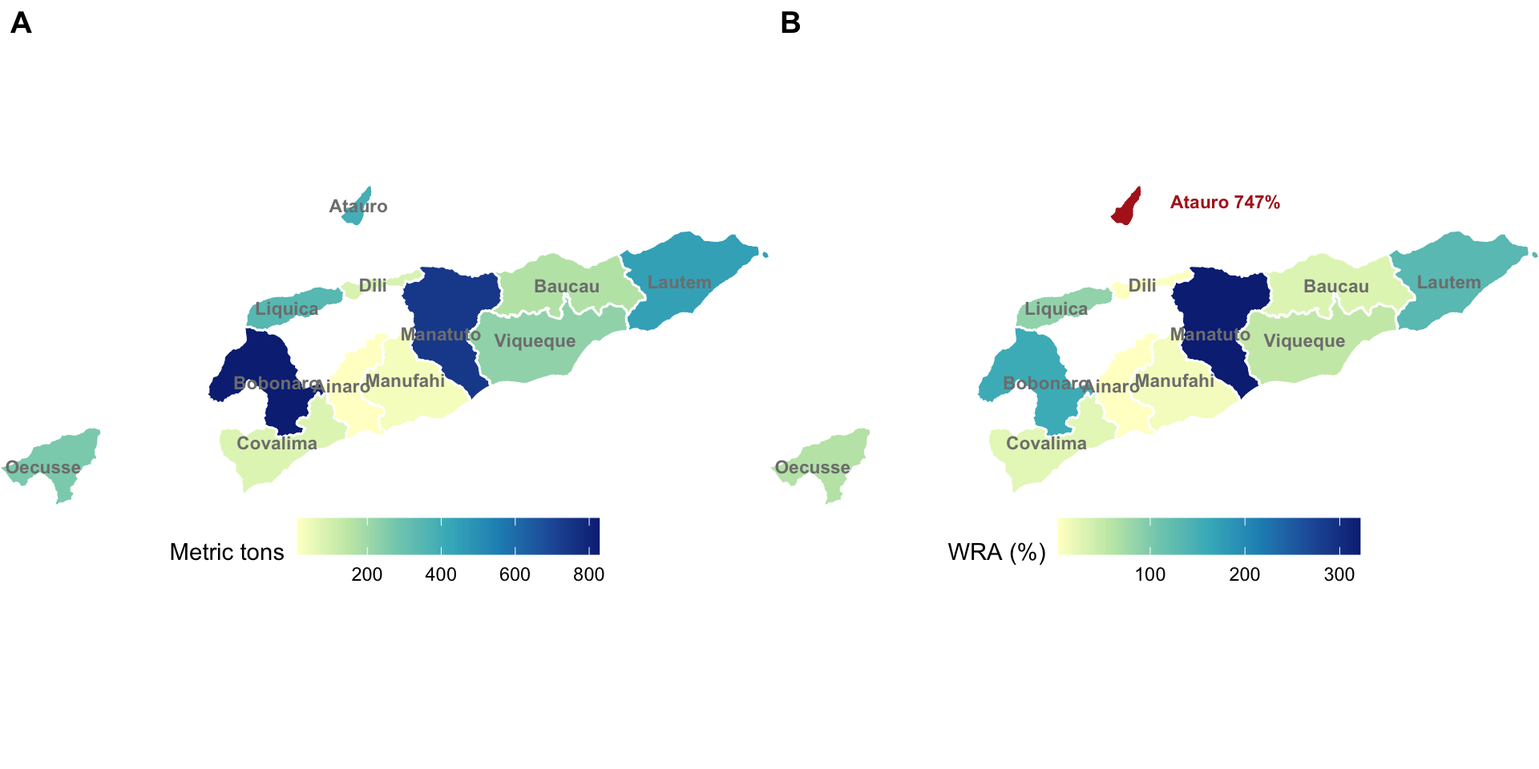
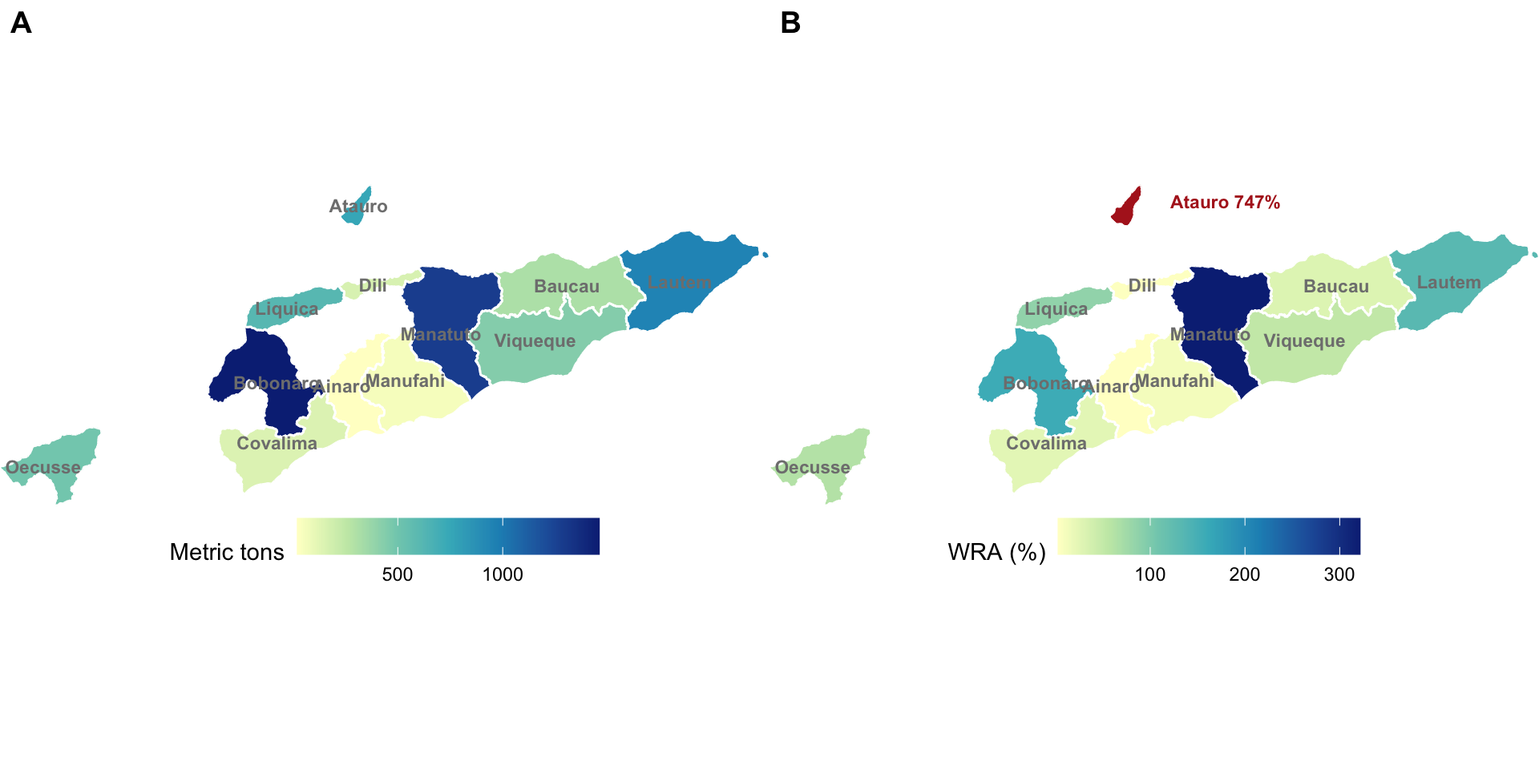
fix nutritional map figure

diff --git a/docs/highlight.html b/docs/highlight.html
@@ -178,87 +178,100 @@ code span.wa { color: #60a0b0; font-weight: bold; font-style: italic; } /* Warni
 <details class=chunk-details><summary class=chunk-summary><span class=chunk-summary-text>Code</span></summary>
 <div class="sourceCode" id="cb1"><pre class="sourceCode r"><code class="sourceCode r"><span id="cb1-1"><a href="highlight.html#cb1-1" tabindex="-1"></a>bonds <span class="ot">&lt;-</span> sf<span class="sc">::</span><span class="fu">st_as_sf</span>(timor.nutrients<span class="sc">::</span>timor_bonds)</span>
 <span id="cb1-2"><a href="highlight.html#cb1-2" tabindex="-1"></a></span>
-<span id="cb1-3"><a href="highlight.html#cb1-3" tabindex="-1"></a>region_nutr <span class="ot">&lt;-</span></span>
-<span id="cb1-4"><a href="highlight.html#cb1-4" tabindex="-1"></a>  timor.nutrients<span class="sc">::</span>map_data_adj <span class="sc">%&gt;%</span></span>
-<span id="cb1-5"><a href="highlight.html#cb1-5" tabindex="-1"></a>  dplyr<span class="sc">::</span><span class="fu">rename</span>(<span class="at">region =</span> area) <span class="sc">%&gt;%</span></span>
-<span id="cb1-6"><a href="highlight.html#cb1-6" tabindex="-1"></a>  dplyr<span class="sc">::</span><span class="fu">filter</span>(<span class="sc">!</span>region <span class="sc">==</span> <span class="st">&quot;National&quot;</span>) <span class="sc">%&gt;%</span></span>
-<span id="cb1-7"><a href="highlight.html#cb1-7" tabindex="-1"></a>  dplyr<span class="sc">::</span><span class="fu">mutate</span>(<span class="at">region =</span> <span class="fu">ifelse</span>(region <span class="sc">==</span> <span class="st">&quot;Liquiça&quot;</span>, <span class="st">&quot;Liquica&quot;</span>, region)) <span class="sc">%&gt;%</span></span>
-<span id="cb1-8"><a href="highlight.html#cb1-8" tabindex="-1"></a>  dplyr<span class="sc">::</span><span class="fu">right_join</span>(bonds, <span class="at">by =</span> <span class="fu">c</span>(<span class="st">&quot;region&quot;</span>))</span>
+<span id="cb1-3"><a href="highlight.html#cb1-3" tabindex="-1"></a>tot_prod <span class="ot">&lt;-</span> </span>
+<span id="cb1-4"><a href="highlight.html#cb1-4" tabindex="-1"></a>  timor.nutrients<span class="sc">::</span>map_data <span class="sc">|&gt;</span> </span>
+<span id="cb1-5"><a href="highlight.html#cb1-5" tabindex="-1"></a>    dplyr<span class="sc">::</span><span class="fu">rename</span>(<span class="at">region =</span> area) <span class="sc">|&gt;</span> </span>
+<span id="cb1-6"><a href="highlight.html#cb1-6" tabindex="-1"></a>    dplyr<span class="sc">::</span><span class="fu">rename</span>(<span class="at">annual_catch_tot =</span> annual_catch) <span class="sc">|&gt;</span> </span>
+<span id="cb1-7"><a href="highlight.html#cb1-7" tabindex="-1"></a>    dplyr<span class="sc">::</span><span class="fu">rename</span>(<span class="at">WRA_tot =</span> WRA) <span class="sc">|&gt;</span> </span>
+<span id="cb1-8"><a href="highlight.html#cb1-8" tabindex="-1"></a>    dplyr<span class="sc">::</span><span class="fu">mutate</span>(<span class="at">region =</span> <span class="fu">ifelse</span>(region <span class="sc">==</span> <span class="st">&quot;Liquiça&quot;</span>, <span class="st">&quot;Liquica&quot;</span>, region))</span>
 <span id="cb1-9"><a href="highlight.html#cb1-9" tabindex="-1"></a></span>
-<span id="cb1-10"><a href="highlight.html#cb1-10" tabindex="-1"></a>p1 <span class="ot">&lt;-</span> </span>
-<span id="cb1-11"><a href="highlight.html#cb1-11" tabindex="-1"></a>  <span class="fu">ggplot</span>(<span class="at">data =</span> region_nutr) <span class="sc">+</span></span>
-<span id="cb1-12"><a href="highlight.html#cb1-12" tabindex="-1"></a>  <span class="fu">geom_sf</span>(<span class="fu">aes</span>(<span class="at">geometry =</span> geometry, <span class="at">fill =</span> annual_catch),</span>
-<span id="cb1-13"><a href="highlight.html#cb1-13" tabindex="-1"></a>          <span class="at">color =</span> <span class="st">&quot;white&quot;</span>, <span class="at">linewidth =</span> <span class="fl">0.5</span></span>
-<span id="cb1-14"><a href="highlight.html#cb1-14" tabindex="-1"></a>  ) <span class="sc">+</span></span>
-<span id="cb1-15"><a href="highlight.html#cb1-15" tabindex="-1"></a>  <span class="fu">theme_void</span>() <span class="sc">+</span></span>
-<span id="cb1-16"><a href="highlight.html#cb1-16" tabindex="-1"></a>  <span class="fu">geom_sf_text</span>(<span class="fu">aes</span>(<span class="at">label =</span> region, <span class="at">geometry =</span> geometry), <span class="at">size =</span> <span class="dv">3</span>, <span class="at">color =</span> <span class="st">&quot;grey50&quot;</span>, <span class="at">fontface =</span> <span class="st">&quot;bold&quot;</span>) <span class="sc">+</span></span>
-<span id="cb1-17"><a href="highlight.html#cb1-17" tabindex="-1"></a>  <span class="co"># scale_fill_viridis_c(option = &quot;viridis&quot;, direction = -1, begin = 0.3, end = 1, alpha = 0.7) +</span></span>
-<span id="cb1-18"><a href="highlight.html#cb1-18" tabindex="-1"></a>  <span class="fu">scale_fill_distiller</span>(<span class="at">palette =</span> <span class="st">&quot;YlGnBu&quot;</span>, <span class="at">direction =</span> <span class="dv">1</span>) <span class="sc">+</span></span>
-<span id="cb1-19"><a href="highlight.html#cb1-19" tabindex="-1"></a>  <span class="fu">guides</span>(<span class="at">alpha =</span> <span class="st">&quot;none&quot;</span>) <span class="sc">+</span></span>
-<span id="cb1-20"><a href="highlight.html#cb1-20" tabindex="-1"></a>  <span class="fu">coord_sf</span>(<span class="at">expand =</span> <span class="cn">FALSE</span>) <span class="sc">+</span></span>
-<span id="cb1-21"><a href="highlight.html#cb1-21" tabindex="-1"></a>  <span class="fu">theme</span>(</span>
-<span id="cb1-22"><a href="highlight.html#cb1-22" tabindex="-1"></a>    <span class="at">legend.position =</span> <span class="st">&quot;bottom&quot;</span>,</span>
-<span id="cb1-23"><a href="highlight.html#cb1-23" tabindex="-1"></a>    <span class="at">legend.key.width =</span> <span class="fu">unit</span>(<span class="dv">1</span>, <span class="st">&quot;cm&quot;</span>),</span>
-<span id="cb1-24"><a href="highlight.html#cb1-24" tabindex="-1"></a>    <span class="at">panel.grid =</span> <span class="fu">element_blank</span>(),</span>
-<span id="cb1-25"><a href="highlight.html#cb1-25" tabindex="-1"></a>    <span class="at">axis.ticks =</span> <span class="fu">element_blank</span>(),</span>
-<span id="cb1-26"><a href="highlight.html#cb1-26" tabindex="-1"></a>    <span class="at">axis.title =</span> <span class="fu">element_blank</span>(),</span>
-<span id="cb1-27"><a href="highlight.html#cb1-27" tabindex="-1"></a>    <span class="at">axis.text =</span> <span class="fu">element_blank</span>()</span>
-<span id="cb1-28"><a href="highlight.html#cb1-28" tabindex="-1"></a>  ) <span class="sc">+</span></span>
-<span id="cb1-29"><a href="highlight.html#cb1-29" tabindex="-1"></a>  <span class="fu">labs</span>(</span>
-<span id="cb1-30"><a href="highlight.html#cb1-30" tabindex="-1"></a>    <span class="at">fill =</span> <span class="st">&quot;Metric tons&quot;</span></span>
-<span id="cb1-31"><a href="highlight.html#cb1-31" tabindex="-1"></a>  )</span>
-<span id="cb1-32"><a href="highlight.html#cb1-32" tabindex="-1"></a></span>
-<span id="cb1-33"><a href="highlight.html#cb1-33" tabindex="-1"></a></span>
-<span id="cb1-34"><a href="highlight.html#cb1-34" tabindex="-1"></a>p2 <span class="ot">&lt;-</span> </span>
-<span id="cb1-35"><a href="highlight.html#cb1-35" tabindex="-1"></a>  <span class="fu">ggplot</span>() <span class="sc">+</span></span>
-<span id="cb1-36"><a href="highlight.html#cb1-36" tabindex="-1"></a>  <span class="fu">geom_sf</span>(</span>
-<span id="cb1-37"><a href="highlight.html#cb1-37" tabindex="-1"></a>    <span class="at">data =</span> region_nutr <span class="sc">%&gt;%</span></span>
-<span id="cb1-38"><a href="highlight.html#cb1-38" tabindex="-1"></a>      dplyr<span class="sc">::</span><span class="fu">filter</span>(<span class="sc">!</span>region <span class="sc">==</span> <span class="st">&quot;Atauro&quot;</span>), <span class="at">mapping =</span> <span class="fu">aes</span>(<span class="at">geometry =</span> geometry, <span class="at">fill =</span> WRA),</span>
-<span id="cb1-39"><a href="highlight.html#cb1-39" tabindex="-1"></a>    <span class="at">color =</span> <span class="st">&quot;white&quot;</span>, <span class="at">linewidth =</span> <span class="fl">0.5</span></span>
-<span id="cb1-40"><a href="highlight.html#cb1-40" tabindex="-1"></a>  ) <span class="sc">+</span></span>
-<span id="cb1-41"><a href="highlight.html#cb1-41" tabindex="-1"></a>  <span class="fu">geom_sf</span>(</span>
-<span id="cb1-42"><a href="highlight.html#cb1-42" tabindex="-1"></a>    <span class="at">data =</span> region_nutr <span class="sc">%&gt;%</span></span>
-<span id="cb1-43"><a href="highlight.html#cb1-43" tabindex="-1"></a>      dplyr<span class="sc">::</span><span class="fu">filter</span>(region <span class="sc">==</span> <span class="st">&quot;Atauro&quot;</span>), <span class="at">mapping =</span> <span class="fu">aes</span>(<span class="at">geometry =</span> geometry), <span class="at">fill =</span> <span class="st">&quot;firebrick&quot;</span>,</span>
-<span id="cb1-44"><a href="highlight.html#cb1-44" tabindex="-1"></a>    <span class="at">color =</span> <span class="st">&quot;white&quot;</span>, <span class="at">linewidth =</span> <span class="fl">0.5</span></span>
-<span id="cb1-45"><a href="highlight.html#cb1-45" tabindex="-1"></a>  ) <span class="sc">+</span></span>
-<span id="cb1-46"><a href="highlight.html#cb1-46" tabindex="-1"></a>  <span class="fu">theme_void</span>() <span class="sc">+</span></span>
-<span id="cb1-47"><a href="highlight.html#cb1-47" tabindex="-1"></a>  <span class="fu">geom_sf_text</span>(<span class="at">data =</span> region_nutr <span class="sc">%&gt;%</span></span>
-<span id="cb1-48"><a href="highlight.html#cb1-48" tabindex="-1"></a>                 dplyr<span class="sc">::</span><span class="fu">filter</span>(<span class="sc">!</span>region <span class="sc">==</span> <span class="st">&quot;Atauro&quot;</span>), <span class="at">mapping =</span> <span class="fu">aes</span>(<span class="at">label =</span> region, <span class="at">geometry =</span> geometry), <span class="at">size =</span> <span class="dv">3</span>, <span class="at">color =</span> <span class="st">&quot;grey50&quot;</span>, <span class="at">fontface =</span> <span class="st">&quot;bold&quot;</span>) <span class="sc">+</span></span>
-<span id="cb1-49"><a href="highlight.html#cb1-49" tabindex="-1"></a>  <span class="fu">annotate</span>(</span>
-<span id="cb1-50"><a href="highlight.html#cb1-50" tabindex="-1"></a>    <span class="st">&quot;text&quot;</span>,</span>
-<span id="cb1-51"><a href="highlight.html#cb1-51" tabindex="-1"></a>    <span class="at">x =</span> <span class="dv">126</span>, <span class="at">y =</span> <span class="sc">-</span><span class="fl">8.2</span>, <span class="at">label =</span> <span class="st">&quot;Atauro 747%&quot;</span>, <span class="at">size =</span> <span class="dv">3</span>, <span class="at">color =</span> <span class="st">&quot;firebrick&quot;</span>, <span class="at">fontface =</span> <span class="st">&quot;bold&quot;</span></span>
-<span id="cb1-52"><a href="highlight.html#cb1-52" tabindex="-1"></a>  ) <span class="sc">+</span></span>
-<span id="cb1-53"><a href="highlight.html#cb1-53" tabindex="-1"></a>  <span class="co"># annotate(</span></span>
-<span id="cb1-54"><a href="highlight.html#cb1-54" tabindex="-1"></a>  <span class="co">#  &quot;text&quot;, x = 125.8, y = -8.2, label = &quot;1067.9%&quot;, size = 3, color = &quot;firebrick&quot;, fontface = &quot;bold&quot;</span></span>
-<span id="cb1-55"><a href="highlight.html#cb1-55" tabindex="-1"></a>  <span class="co"># ) +</span></span>
-<span id="cb1-56"><a href="highlight.html#cb1-56" tabindex="-1"></a>  <span class="fu">scale_fill_distiller</span>(<span class="at">palette =</span> <span class="st">&quot;YlGnBu&quot;</span>, <span class="at">direction =</span> <span class="dv">1</span>) <span class="sc">+</span></span>
-<span id="cb1-57"><a href="highlight.html#cb1-57" tabindex="-1"></a>  <span class="fu">guides</span>(<span class="at">alpha =</span> <span class="st">&quot;none&quot;</span>) <span class="sc">+</span></span>
-<span id="cb1-58"><a href="highlight.html#cb1-58" tabindex="-1"></a>  <span class="fu">coord_sf</span>(<span class="at">expand =</span> <span class="cn">FALSE</span>) <span class="sc">+</span></span>
-<span id="cb1-59"><a href="highlight.html#cb1-59" tabindex="-1"></a>  <span class="fu">theme</span>(</span>
-<span id="cb1-60"><a href="highlight.html#cb1-60" tabindex="-1"></a>    <span class="at">plot.margin =</span> <span class="fu">margin</span>(<span class="dv">0</span>, <span class="dv">0</span>, <span class="dv">0</span>, <span class="dv">0</span>, <span class="st">&quot;cm&quot;</span>),</span>
-<span id="cb1-61"><a href="highlight.html#cb1-61" tabindex="-1"></a>    <span class="at">legend.position =</span> <span class="st">&quot;bottom&quot;</span>,</span>
-<span id="cb1-62"><a href="highlight.html#cb1-62" tabindex="-1"></a>    <span class="at">legend.key.width =</span> <span class="fu">unit</span>(<span class="dv">1</span>, <span class="st">&quot;cm&quot;</span>),</span>
-<span id="cb1-63"><a href="highlight.html#cb1-63" tabindex="-1"></a>    <span class="at">panel.grid =</span> <span class="fu">element_blank</span>(),</span>
-<span id="cb1-64"><a href="highlight.html#cb1-64" tabindex="-1"></a>    <span class="at">axis.ticks =</span> <span class="fu">element_blank</span>(),</span>
-<span id="cb1-65"><a href="highlight.html#cb1-65" tabindex="-1"></a>    <span class="at">axis.title =</span> <span class="fu">element_blank</span>(),</span>
-<span id="cb1-66"><a href="highlight.html#cb1-66" tabindex="-1"></a>    <span class="at">axis.text =</span> <span class="fu">element_blank</span>()</span>
-<span id="cb1-67"><a href="highlight.html#cb1-67" tabindex="-1"></a>  ) <span class="sc">+</span></span>
-<span id="cb1-68"><a href="highlight.html#cb1-68" tabindex="-1"></a>  <span class="fu">labs</span>(</span>
-<span id="cb1-69"><a href="highlight.html#cb1-69" tabindex="-1"></a>    <span class="at">fill =</span> <span class="st">&quot;WRA (%)&quot;</span></span>
-<span id="cb1-70"><a href="highlight.html#cb1-70" tabindex="-1"></a>  )</span>
-<span id="cb1-71"><a href="highlight.html#cb1-71" tabindex="-1"></a></span>
-<span id="cb1-72"><a href="highlight.html#cb1-72" tabindex="-1"></a><span class="co">#title = &quot;WRA that would meet the recommended quantity of edible fish annually,\nfrom marine catches by municipality&quot;</span></span>
-<span id="cb1-73"><a href="highlight.html#cb1-73" tabindex="-1"></a><span class="co">#title = &quot;Timor-Leste small scale fisheries production&quot;,</span></span>
-<span id="cb1-74"><a href="highlight.html#cb1-74" tabindex="-1"></a><span class="co">#subtitle = &quot;Annual catch in Mt per municipality, average (2020-2022)&quot;</span></span>
-<span id="cb1-75"><a href="highlight.html#cb1-75" tabindex="-1"></a></span>
-<span id="cb1-76"><a href="highlight.html#cb1-76" tabindex="-1"></a>cowplot<span class="sc">::</span><span class="fu">plot_grid</span>(</span>
-<span id="cb1-77"><a href="highlight.html#cb1-77" tabindex="-1"></a>  p1 <span class="sc">+</span> <span class="fu">theme</span>(<span class="at">plot.margin =</span> <span class="fu">margin</span>(<span class="dv">0</span>, <span class="dv">0</span>, <span class="dv">0</span>, <span class="dv">0</span>, <span class="st">&quot;cm&quot;</span>)), </span>
-<span id="cb1-78"><a href="highlight.html#cb1-78" tabindex="-1"></a>  p2 <span class="sc">+</span> <span class="fu">theme</span>(<span class="at">plot.margin =</span> <span class="fu">margin</span>(<span class="dv">0</span>, <span class="dv">0</span>, <span class="dv">0</span>, <span class="dv">0</span>, <span class="st">&quot;cm&quot;</span>)), </span>
-<span id="cb1-79"><a href="highlight.html#cb1-79" tabindex="-1"></a>  <span class="at">ncol =</span> <span class="dv">2</span>, </span>
-<span id="cb1-80"><a href="highlight.html#cb1-80" tabindex="-1"></a>  <span class="at">labels =</span> <span class="st">&quot;AUTO&quot;</span>, </span>
-<span id="cb1-81"><a href="highlight.html#cb1-81" tabindex="-1"></a>  <span class="at">rel_widths =</span> <span class="fu">c</span>(<span class="dv">1</span>, <span class="dv">1</span>), </span>
-<span id="cb1-82"><a href="highlight.html#cb1-82" tabindex="-1"></a>  <span class="at">align =</span> <span class="st">&quot;hv&quot;</span></span>
-<span id="cb1-83"><a href="highlight.html#cb1-83" tabindex="-1"></a>)</span></code></pre></div>
+<span id="cb1-10"><a href="highlight.html#cb1-10" tabindex="-1"></a></span>
+<span id="cb1-11"><a href="highlight.html#cb1-11" tabindex="-1"></a>region_nutr <span class="ot">&lt;-</span></span>
+<span id="cb1-12"><a href="highlight.html#cb1-12" tabindex="-1"></a>  timor.nutrients<span class="sc">::</span>map_data_adj <span class="sc">%&gt;%</span></span>
+<span id="cb1-13"><a href="highlight.html#cb1-13" tabindex="-1"></a>  dplyr<span class="sc">::</span><span class="fu">rename</span>(<span class="at">region =</span> area) <span class="sc">%&gt;%</span></span>
+<span id="cb1-14"><a href="highlight.html#cb1-14" tabindex="-1"></a>  dplyr<span class="sc">::</span><span class="fu">filter</span>(<span class="sc">!</span>region <span class="sc">==</span> <span class="st">&quot;National&quot;</span>) <span class="sc">%&gt;%</span></span>
+<span id="cb1-15"><a href="highlight.html#cb1-15" tabindex="-1"></a>  dplyr<span class="sc">::</span><span class="fu">mutate</span>(<span class="at">region =</span> <span class="fu">ifelse</span>(region <span class="sc">==</span> <span class="st">&quot;Liquiça&quot;</span>, <span class="st">&quot;Liquica&quot;</span>, region)) <span class="sc">%&gt;%</span></span>
+<span id="cb1-16"><a href="highlight.html#cb1-16" tabindex="-1"></a>  dplyr<span class="sc">::</span><span class="fu">right_join</span>(bonds, <span class="at">by =</span> <span class="fu">c</span>(<span class="st">&quot;region&quot;</span>)) <span class="sc">|&gt;</span> </span>
+<span id="cb1-17"><a href="highlight.html#cb1-17" tabindex="-1"></a>  dplyr<span class="sc">::</span><span class="fu">left_join</span>(tot_prod, <span class="at">by =</span> <span class="st">&quot;region&quot;</span>) <span class="sc">|&gt;</span> </span>
+<span id="cb1-18"><a href="highlight.html#cb1-18" tabindex="-1"></a>  dplyr<span class="sc">::</span><span class="fu">select</span>(region, </span>
+<span id="cb1-19"><a href="highlight.html#cb1-19" tabindex="-1"></a>  annual_catch_tot, </span>
+<span id="cb1-20"><a href="highlight.html#cb1-20" tabindex="-1"></a>  WRA,</span>
+<span id="cb1-21"><a href="highlight.html#cb1-21" tabindex="-1"></a>  geometry)</span>
+<span id="cb1-22"><a href="highlight.html#cb1-22" tabindex="-1"></a></span>
+<span id="cb1-23"><a href="highlight.html#cb1-23" tabindex="-1"></a>p1 <span class="ot">&lt;-</span> </span>
+<span id="cb1-24"><a href="highlight.html#cb1-24" tabindex="-1"></a>  <span class="fu">ggplot</span>(<span class="at">data =</span> region_nutr) <span class="sc">+</span></span>
+<span id="cb1-25"><a href="highlight.html#cb1-25" tabindex="-1"></a>  <span class="fu">geom_sf</span>(<span class="fu">aes</span>(<span class="at">geometry =</span> geometry, <span class="at">fill =</span> annual_catch_tot),</span>
+<span id="cb1-26"><a href="highlight.html#cb1-26" tabindex="-1"></a>          <span class="at">color =</span> <span class="st">&quot;white&quot;</span>, <span class="at">linewidth =</span> <span class="fl">0.5</span></span>
+<span id="cb1-27"><a href="highlight.html#cb1-27" tabindex="-1"></a>  ) <span class="sc">+</span></span>
+<span id="cb1-28"><a href="highlight.html#cb1-28" tabindex="-1"></a>  <span class="fu">theme_void</span>() <span class="sc">+</span></span>
+<span id="cb1-29"><a href="highlight.html#cb1-29" tabindex="-1"></a>  <span class="fu">geom_sf_text</span>(<span class="fu">aes</span>(<span class="at">label =</span> region, <span class="at">geometry =</span> geometry), <span class="at">size =</span> <span class="dv">3</span>, <span class="at">color =</span> <span class="st">&quot;grey50&quot;</span>, <span class="at">fontface =</span> <span class="st">&quot;bold&quot;</span>) <span class="sc">+</span></span>
+<span id="cb1-30"><a href="highlight.html#cb1-30" tabindex="-1"></a>  <span class="co"># scale_fill_viridis_c(option = &quot;viridis&quot;, direction = -1, begin = 0.3, end = 1, alpha = 0.7) +</span></span>
+<span id="cb1-31"><a href="highlight.html#cb1-31" tabindex="-1"></a>  <span class="fu">scale_fill_distiller</span>(<span class="at">palette =</span> <span class="st">&quot;YlGnBu&quot;</span>, <span class="at">direction =</span> <span class="dv">1</span>) <span class="sc">+</span></span>
+<span id="cb1-32"><a href="highlight.html#cb1-32" tabindex="-1"></a>  <span class="fu">guides</span>(<span class="at">alpha =</span> <span class="st">&quot;none&quot;</span>) <span class="sc">+</span></span>
+<span id="cb1-33"><a href="highlight.html#cb1-33" tabindex="-1"></a>  <span class="fu">coord_sf</span>(<span class="at">expand =</span> <span class="cn">FALSE</span>) <span class="sc">+</span></span>
+<span id="cb1-34"><a href="highlight.html#cb1-34" tabindex="-1"></a>  <span class="fu">theme</span>(</span>
+<span id="cb1-35"><a href="highlight.html#cb1-35" tabindex="-1"></a>    <span class="at">legend.position =</span> <span class="st">&quot;bottom&quot;</span>,</span>
+<span id="cb1-36"><a href="highlight.html#cb1-36" tabindex="-1"></a>    <span class="at">legend.key.width =</span> <span class="fu">unit</span>(<span class="dv">1</span>, <span class="st">&quot;cm&quot;</span>),</span>
+<span id="cb1-37"><a href="highlight.html#cb1-37" tabindex="-1"></a>    <span class="at">panel.grid =</span> <span class="fu">element_blank</span>(),</span>
+<span id="cb1-38"><a href="highlight.html#cb1-38" tabindex="-1"></a>    <span class="at">axis.ticks =</span> <span class="fu">element_blank</span>(),</span>
+<span id="cb1-39"><a href="highlight.html#cb1-39" tabindex="-1"></a>    <span class="at">axis.title =</span> <span class="fu">element_blank</span>(),</span>
+<span id="cb1-40"><a href="highlight.html#cb1-40" tabindex="-1"></a>    <span class="at">axis.text =</span> <span class="fu">element_blank</span>()</span>
+<span id="cb1-41"><a href="highlight.html#cb1-41" tabindex="-1"></a>  ) <span class="sc">+</span></span>
+<span id="cb1-42"><a href="highlight.html#cb1-42" tabindex="-1"></a>  <span class="fu">labs</span>(</span>
+<span id="cb1-43"><a href="highlight.html#cb1-43" tabindex="-1"></a>    <span class="at">fill =</span> <span class="st">&quot;Metric tons&quot;</span></span>
+<span id="cb1-44"><a href="highlight.html#cb1-44" tabindex="-1"></a>  )</span>
+<span id="cb1-45"><a href="highlight.html#cb1-45" tabindex="-1"></a></span>
+<span id="cb1-46"><a href="highlight.html#cb1-46" tabindex="-1"></a></span>
+<span id="cb1-47"><a href="highlight.html#cb1-47" tabindex="-1"></a>p2 <span class="ot">&lt;-</span> </span>
+<span id="cb1-48"><a href="highlight.html#cb1-48" tabindex="-1"></a>  <span class="fu">ggplot</span>() <span class="sc">+</span></span>
+<span id="cb1-49"><a href="highlight.html#cb1-49" tabindex="-1"></a>  <span class="fu">geom_sf</span>(</span>
+<span id="cb1-50"><a href="highlight.html#cb1-50" tabindex="-1"></a>    <span class="at">data =</span> region_nutr <span class="sc">%&gt;%</span></span>
+<span id="cb1-51"><a href="highlight.html#cb1-51" tabindex="-1"></a>      dplyr<span class="sc">::</span><span class="fu">filter</span>(<span class="sc">!</span>region <span class="sc">==</span> <span class="st">&quot;Atauro&quot;</span>), <span class="at">mapping =</span> <span class="fu">aes</span>(<span class="at">geometry =</span> geometry, <span class="at">fill =</span> WRA),</span>
+<span id="cb1-52"><a href="highlight.html#cb1-52" tabindex="-1"></a>    <span class="at">color =</span> <span class="st">&quot;white&quot;</span>, <span class="at">linewidth =</span> <span class="fl">0.5</span></span>
+<span id="cb1-53"><a href="highlight.html#cb1-53" tabindex="-1"></a>  ) <span class="sc">+</span></span>
+<span id="cb1-54"><a href="highlight.html#cb1-54" tabindex="-1"></a>  <span class="fu">geom_sf</span>(</span>
+<span id="cb1-55"><a href="highlight.html#cb1-55" tabindex="-1"></a>    <span class="at">data =</span> region_nutr <span class="sc">%&gt;%</span></span>
+<span id="cb1-56"><a href="highlight.html#cb1-56" tabindex="-1"></a>      dplyr<span class="sc">::</span><span class="fu">filter</span>(region <span class="sc">==</span> <span class="st">&quot;Atauro&quot;</span>), <span class="at">mapping =</span> <span class="fu">aes</span>(<span class="at">geometry =</span> geometry), <span class="at">fill =</span> <span class="st">&quot;firebrick&quot;</span>,</span>
+<span id="cb1-57"><a href="highlight.html#cb1-57" tabindex="-1"></a>    <span class="at">color =</span> <span class="st">&quot;white&quot;</span>, <span class="at">linewidth =</span> <span class="fl">0.5</span></span>
+<span id="cb1-58"><a href="highlight.html#cb1-58" tabindex="-1"></a>  ) <span class="sc">+</span></span>
+<span id="cb1-59"><a href="highlight.html#cb1-59" tabindex="-1"></a>  <span class="fu">theme_void</span>() <span class="sc">+</span></span>
+<span id="cb1-60"><a href="highlight.html#cb1-60" tabindex="-1"></a>  <span class="fu">geom_sf_text</span>(<span class="at">data =</span> region_nutr <span class="sc">%&gt;%</span></span>
+<span id="cb1-61"><a href="highlight.html#cb1-61" tabindex="-1"></a>                 dplyr<span class="sc">::</span><span class="fu">filter</span>(<span class="sc">!</span>region <span class="sc">==</span> <span class="st">&quot;Atauro&quot;</span>), <span class="at">mapping =</span> <span class="fu">aes</span>(<span class="at">label =</span> region, <span class="at">geometry =</span> geometry), <span class="at">size =</span> <span class="dv">3</span>, <span class="at">color =</span> <span class="st">&quot;grey50&quot;</span>, <span class="at">fontface =</span> <span class="st">&quot;bold&quot;</span>) <span class="sc">+</span></span>
+<span id="cb1-62"><a href="highlight.html#cb1-62" tabindex="-1"></a>  <span class="fu">annotate</span>(</span>
+<span id="cb1-63"><a href="highlight.html#cb1-63" tabindex="-1"></a>    <span class="st">&quot;text&quot;</span>,</span>
+<span id="cb1-64"><a href="highlight.html#cb1-64" tabindex="-1"></a>    <span class="at">x =</span> <span class="dv">126</span>, <span class="at">y =</span> <span class="sc">-</span><span class="fl">8.2</span>, <span class="at">label =</span> <span class="st">&quot;Atauro 747%&quot;</span>, <span class="at">size =</span> <span class="dv">3</span>, <span class="at">color =</span> <span class="st">&quot;firebrick&quot;</span>, <span class="at">fontface =</span> <span class="st">&quot;bold&quot;</span></span>
+<span id="cb1-65"><a href="highlight.html#cb1-65" tabindex="-1"></a>  ) <span class="sc">+</span></span>
+<span id="cb1-66"><a href="highlight.html#cb1-66" tabindex="-1"></a>  <span class="co"># annotate(</span></span>
+<span id="cb1-67"><a href="highlight.html#cb1-67" tabindex="-1"></a>  <span class="co">#  &quot;text&quot;, x = 125.8, y = -8.2, label = &quot;1067.9%&quot;, size = 3, color = &quot;firebrick&quot;, fontface = &quot;bold&quot;</span></span>
+<span id="cb1-68"><a href="highlight.html#cb1-68" tabindex="-1"></a>  <span class="co"># ) +</span></span>
+<span id="cb1-69"><a href="highlight.html#cb1-69" tabindex="-1"></a>  <span class="fu">scale_fill_distiller</span>(<span class="at">palette =</span> <span class="st">&quot;YlGnBu&quot;</span>, <span class="at">direction =</span> <span class="dv">1</span>) <span class="sc">+</span></span>
+<span id="cb1-70"><a href="highlight.html#cb1-70" tabindex="-1"></a>  <span class="fu">guides</span>(<span class="at">alpha =</span> <span class="st">&quot;none&quot;</span>) <span class="sc">+</span></span>
+<span id="cb1-71"><a href="highlight.html#cb1-71" tabindex="-1"></a>  <span class="fu">coord_sf</span>(<span class="at">expand =</span> <span class="cn">FALSE</span>) <span class="sc">+</span></span>
+<span id="cb1-72"><a href="highlight.html#cb1-72" tabindex="-1"></a>  <span class="fu">theme</span>(</span>
+<span id="cb1-73"><a href="highlight.html#cb1-73" tabindex="-1"></a>    <span class="at">plot.margin =</span> <span class="fu">margin</span>(<span class="dv">0</span>, <span class="dv">0</span>, <span class="dv">0</span>, <span class="dv">0</span>, <span class="st">&quot;cm&quot;</span>),</span>
+<span id="cb1-74"><a href="highlight.html#cb1-74" tabindex="-1"></a>    <span class="at">legend.position =</span> <span class="st">&quot;bottom&quot;</span>,</span>
+<span id="cb1-75"><a href="highlight.html#cb1-75" tabindex="-1"></a>    <span class="at">legend.key.width =</span> <span class="fu">unit</span>(<span class="dv">1</span>, <span class="st">&quot;cm&quot;</span>),</span>
+<span id="cb1-76"><a href="highlight.html#cb1-76" tabindex="-1"></a>    <span class="at">panel.grid =</span> <span class="fu">element_blank</span>(),</span>
+<span id="cb1-77"><a href="highlight.html#cb1-77" tabindex="-1"></a>    <span class="at">axis.ticks =</span> <span class="fu">element_blank</span>(),</span>
+<span id="cb1-78"><a href="highlight.html#cb1-78" tabindex="-1"></a>    <span class="at">axis.title =</span> <span class="fu">element_blank</span>(),</span>
+<span id="cb1-79"><a href="highlight.html#cb1-79" tabindex="-1"></a>    <span class="at">axis.text =</span> <span class="fu">element_blank</span>()</span>
+<span id="cb1-80"><a href="highlight.html#cb1-80" tabindex="-1"></a>  ) <span class="sc">+</span></span>
+<span id="cb1-81"><a href="highlight.html#cb1-81" tabindex="-1"></a>  <span class="fu">labs</span>(</span>
+<span id="cb1-82"><a href="highlight.html#cb1-82" tabindex="-1"></a>    <span class="at">fill =</span> <span class="st">&quot;WRA (%)&quot;</span></span>
+<span id="cb1-83"><a href="highlight.html#cb1-83" tabindex="-1"></a>  )</span>
+<span id="cb1-84"><a href="highlight.html#cb1-84" tabindex="-1"></a></span>
+<span id="cb1-85"><a href="highlight.html#cb1-85" tabindex="-1"></a><span class="co">#title = &quot;WRA that would meet the recommended quantity of edible fish annually,\nfrom marine catches by municipality&quot;</span></span>
+<span id="cb1-86"><a href="highlight.html#cb1-86" tabindex="-1"></a><span class="co">#title = &quot;Timor-Leste small scale fisheries production&quot;,</span></span>
+<span id="cb1-87"><a href="highlight.html#cb1-87" tabindex="-1"></a><span class="co">#subtitle = &quot;Annual catch in Mt per municipality, average (2020-2022)&quot;</span></span>
+<span id="cb1-88"><a href="highlight.html#cb1-88" tabindex="-1"></a></span>
+<span id="cb1-89"><a href="highlight.html#cb1-89" tabindex="-1"></a>cowplot<span class="sc">::</span><span class="fu">plot_grid</span>(</span>
+<span id="cb1-90"><a href="highlight.html#cb1-90" tabindex="-1"></a>  p1 <span class="sc">+</span> <span class="fu">theme</span>(<span class="at">plot.margin =</span> <span class="fu">margin</span>(<span class="dv">0</span>, <span class="dv">0</span>, <span class="dv">0</span>, <span class="dv">0</span>, <span class="st">&quot;cm&quot;</span>)), </span>
+<span id="cb1-91"><a href="highlight.html#cb1-91" tabindex="-1"></a>  p2 <span class="sc">+</span> <span class="fu">theme</span>(<span class="at">plot.margin =</span> <span class="fu">margin</span>(<span class="dv">0</span>, <span class="dv">0</span>, <span class="dv">0</span>, <span class="dv">0</span>, <span class="st">&quot;cm&quot;</span>)), </span>
+<span id="cb1-92"><a href="highlight.html#cb1-92" tabindex="-1"></a>  <span class="at">ncol =</span> <span class="dv">2</span>, </span>
+<span id="cb1-93"><a href="highlight.html#cb1-93" tabindex="-1"></a>  <span class="at">labels =</span> <span class="st">&quot;AUTO&quot;</span>, </span>
+<span id="cb1-94"><a href="highlight.html#cb1-94" tabindex="-1"></a>  <span class="at">rel_widths =</span> <span class="fu">c</span>(<span class="dv">1</span>, <span class="dv">1</span>), </span>
+<span id="cb1-95"><a href="highlight.html#cb1-95" tabindex="-1"></a>  <span class="at">align =</span> <span class="st">&quot;hv&quot;</span></span>
+<span id="cb1-96"><a href="highlight.html#cb1-96" tabindex="-1"></a>)</span></code></pre></div>
 </details>
 <p><img src="Timor-nutrient-sensitive-fisheries-management_files/figure-html/unnamed-chunk-2-1.png" width="960" /></p>
 

diff --git a/docs/profiles.html b/docs/profiles.html
@@ -420,8 +420,8 @@ code span.wa { color: #60a0b0; font-weight: bold; font-style: italic; } /* Warni
 <span id="cb6-23"><a href="profiles.html#cb6-23" tabindex="-1"></a>    )</span>
 <span id="cb6-24"><a href="profiles.html#cb6-24" tabindex="-1"></a>  )</span></code></pre></div>
 </details>
-<div class="reactable html-widget html-fill-item" id="htmlwidget-925cd39ba72c9a1ef556" style="width:auto;height:auto;"></div>
-<script type="application/json" data-for="htmlwidget-925cd39ba72c9a1ef556">{"x":{"tag":{"name":"Reactable","attribs":{"data":{"subset":["mainland_GN","mainland_GN","mainland_GN","mainland_AG","mainland_AG","mainland_AG"],"term":["clusters","Residual","Total","clusters","Residual","Total"],"df":[2,10168,10170,2,5479,5481],"SumOfSqs":[12464.94,5914.55,18379.48,9487.81,3303.11,12790.93],"R2":[0.68,0.32,1,0.74,0.26,1],"statistic":[10714.55,"NA","NA",7868.9,"NA","NA"],"p.value":["< 0.001",null,null,"< 0.001",null,null]},"columns":[{"id":"subset","name":"subset","type":"character","align":"center","minWidth":120},{"id":"term","name":"term","type":"character","align":"center"},{"id":"df","name":"df","type":"numeric","align":"center"},{"id":"SumOfSqs","name":"SumOfSqs","type":"numeric","align":"center"},{"id":"R2","name":"R2","type":"numeric","align":"center"},{"id":"statistic","name":"statistic","type":"numeric","align":"center"},{"id":"p.value","name":"p.value","type":"character","align":"center"}],"groupBy":["subset"],"pagination":false,"defaultExpanded":true,"theme":{"color":"#222222","backgroundColor":"#ffffff","borderColor":"#dddddd","borderWidth":"1px","stripedColor":"#dddddd","highlightColor":"#f0f0f0","cellPadding":5,"tableStyle":{"fontSize":14,"borderBottom":"3px solid #222222"},"headerStyle":{"borderWidth":"3px","paddingTop":"12px","verticalAlign":"bottom","textAlign":"bottom","background":"#ffffff","textTransform":"uppercase","borderColor":"#222222","color":"#000000","&:hover":{"background":"#dddddd"},"&[aria-sort='ascending'], &[aria-sort='descending']":{"background":"#5b5e5f","color":"#ffffff"},"borderColor.1":"#333","fontSize":12},"groupHeaderStyle":{"&:not(:empty)":{"paddingBottom":"3px","verticalAlign":"bottom","textAlign":"bottom","backgroundColor":"#ffffff","textTransform":"uppercase","fontSize":12,"color":"#222222"}},"rowSelectedStyle":{"backgroundColor":"#dddddd"},"cellStyle":{"display":"flex","flexDirection":"column","justifyContent":"center"},"inputStyle":{"backgroundColor":"#ffffff","color":"#222222"},"searchInputStyle":{"textTransform":"uppercase","color":"#222222","fontSize":"14px"},"paginationStyle":{"textTransform":"uppercase","fontSize":"14px"},"pageButtonStyle":{"textTransform":"uppercase","fontSize":"14px"}},"dataKey":"9f1a6d5a3b9d4ce58ac59b0aad5b65f9"},"children":[]},"class":"reactR_markup"},"evals":[],"jsHooks":[]}</script>
+<div class="reactable html-widget html-fill-item" id="htmlwidget-88005d79d9ff6e532401" style="width:auto;height:auto;"></div>
+<script type="application/json" data-for="htmlwidget-88005d79d9ff6e532401">{"x":{"tag":{"name":"Reactable","attribs":{"data":{"subset":["mainland_GN","mainland_GN","mainland_GN","mainland_AG","mainland_AG","mainland_AG"],"term":["clusters","Residual","Total","clusters","Residual","Total"],"df":[2,10168,10170,2,5479,5481],"SumOfSqs":[12464.94,5914.55,18379.48,9487.81,3303.11,12790.93],"R2":[0.68,0.32,1,0.74,0.26,1],"statistic":[10714.55,"NA","NA",7868.9,"NA","NA"],"p.value":["< 0.001",null,null,"< 0.001",null,null]},"columns":[{"id":"subset","name":"subset","type":"character","align":"center","minWidth":120},{"id":"term","name":"term","type":"character","align":"center"},{"id":"df","name":"df","type":"numeric","align":"center"},{"id":"SumOfSqs","name":"SumOfSqs","type":"numeric","align":"center"},{"id":"R2","name":"R2","type":"numeric","align":"center"},{"id":"statistic","name":"statistic","type":"numeric","align":"center"},{"id":"p.value","name":"p.value","type":"character","align":"center"}],"groupBy":["subset"],"pagination":false,"defaultExpanded":true,"theme":{"color":"#222222","backgroundColor":"#ffffff","borderColor":"#dddddd","borderWidth":"1px","stripedColor":"#dddddd","highlightColor":"#f0f0f0","cellPadding":5,"tableStyle":{"fontSize":14,"borderBottom":"3px solid #222222"},"headerStyle":{"borderWidth":"3px","paddingTop":"12px","verticalAlign":"bottom","textAlign":"bottom","background":"#ffffff","textTransform":"uppercase","borderColor":"#222222","color":"#000000","&:hover":{"background":"#dddddd"},"&[aria-sort='ascending'], &[aria-sort='descending']":{"background":"#5b5e5f","color":"#ffffff"},"borderColor.1":"#333","fontSize":12},"groupHeaderStyle":{"&:not(:empty)":{"paddingBottom":"3px","verticalAlign":"bottom","textAlign":"bottom","backgroundColor":"#ffffff","textTransform":"uppercase","fontSize":12,"color":"#222222"}},"rowSelectedStyle":{"backgroundColor":"#dddddd"},"cellStyle":{"display":"flex","flexDirection":"column","justifyContent":"center"},"inputStyle":{"backgroundColor":"#ffffff","color":"#222222"},"searchInputStyle":{"textTransform":"uppercase","color":"#222222","fontSize":"14px"},"paginationStyle":{"textTransform":"uppercase","fontSize":"14px"},"pageButtonStyle":{"textTransform":"uppercase","fontSize":"14px"}},"dataKey":"9f1a6d5a3b9d4ce58ac59b0aad5b65f9"},"children":[]},"class":"reactR_markup"},"evals":[],"jsHooks":[]}</script>
 <details class=chunk-details><summary class=chunk-summary><span class=chunk-summary-text>Code</span></summary>
 <div class="sourceCode" id="cb7"><pre class="sourceCode r"><code class="sourceCode r"><span id="cb7-1"><a href="profiles.html#cb7-1" tabindex="-1"></a>models_auc <span class="ot">&lt;-</span></span>
 <span id="cb7-2"><a href="profiles.html#cb7-2" tabindex="-1"></a>  timor.nutrients<span class="sc">::</span>model_outputs <span class="sc">%&gt;%</span></span>
@@ -515,8 +515,8 @@ code span.wa { color: #60a0b0; font-weight: bold; font-style: italic; } /* Warni
 <span id="cb8-32"><a href="profiles.html#cb8-32" tabindex="-1"></a>    )</span>
 <span id="cb8-33"><a href="profiles.html#cb8-33" tabindex="-1"></a>  )</span></code></pre></div>
 </details>
-<div class="reactable html-widget html-fill-item" id="htmlwidget-513cb3be44d27edd3e97" style="width:auto;height:auto;"></div>
-<script type="application/json" data-for="htmlwidget-513cb3be44d27edd3e97">{"x":{"tag":{"name":"Reactable","attribs":{"data":{"metric":["roc_auc","accuracy","kap","sens","spec","ppv","npv","mcc","j_index","bal_accuracy","detection_prevalence","precision","recall","f_meas"],"Other gears":[0.91,0.8,0.7,0.81,0.9,0.8,0.9,0.7,0.71,0.86,0.33,0.8,0.81,0.8],"Gill nets":[0.92,0.76,0.62,0.77,0.88,0.74,0.87,0.62,0.65,0.82,0.33,0.74,0.77,0.75]},"columns":[{"id":"metric","name":"metric","type":"character","align":"center","minWidth":120},{"id":"Other gears","name":"Other gears","type":"numeric","align":"center"},{"id":"Gill nets","name":"Gill nets","type":"numeric","align":"center"}],"pagination":false,"defaultExpanded":true,"theme":{"color":"#222222","backgroundColor":"#ffffff","borderColor":"#dddddd","borderWidth":"1px","stripedColor":"#dddddd","highlightColor":"#f0f0f0","cellPadding":5,"tableStyle":{"fontSize":14,"borderBottom":"3px solid #222222"},"headerStyle":{"borderWidth":"3px","paddingTop":"12px","verticalAlign":"bottom","textAlign":"bottom","background":"#ffffff","textTransform":"uppercase","borderColor":"#222222","color":"#000000","&:hover":{"background":"#dddddd"},"&[aria-sort='ascending'], &[aria-sort='descending']":{"background":"#5b5e5f","color":"#ffffff"},"borderColor.1":"#333","fontSize":12},"groupHeaderStyle":{"&:not(:empty)":{"paddingBottom":"3px","verticalAlign":"bottom","textAlign":"bottom","backgroundColor":"#ffffff","textTransform":"uppercase","fontSize":12,"color":"#222222"}},"rowSelectedStyle":{"backgroundColor":"#dddddd"},"cellStyle":{"display":"flex","flexDirection":"column","justifyContent":"center"},"inputStyle":{"backgroundColor":"#ffffff","color":"#222222"},"searchInputStyle":{"textTransform":"uppercase","color":"#222222","fontSize":"14px"},"paginationStyle":{"textTransform":"uppercase","fontSize":"14px"},"pageButtonStyle":{"textTransform":"uppercase","fontSize":"14px"}},"dataKey":"01eb1f9aa58abaeaff0139fbc23daed4"},"children":[]},"class":"reactR_markup"},"evals":[],"jsHooks":[]}</script>
+<div class="reactable html-widget html-fill-item" id="htmlwidget-44e238be4a89d63c11e2" style="width:auto;height:auto;"></div>
+<script type="application/json" data-for="htmlwidget-44e238be4a89d63c11e2">{"x":{"tag":{"name":"Reactable","attribs":{"data":{"metric":["roc_auc","accuracy","kap","sens","spec","ppv","npv","mcc","j_index","bal_accuracy","detection_prevalence","precision","recall","f_meas"],"Other gears":[0.91,0.8,0.7,0.81,0.9,0.8,0.9,0.7,0.71,0.86,0.33,0.8,0.81,0.8],"Gill nets":[0.92,0.76,0.62,0.77,0.88,0.74,0.87,0.62,0.65,0.82,0.33,0.74,0.77,0.75]},"columns":[{"id":"metric","name":"metric","type":"character","align":"center","minWidth":120},{"id":"Other gears","name":"Other gears","type":"numeric","align":"center"},{"id":"Gill nets","name":"Gill nets","type":"numeric","align":"center"}],"pagination":false,"defaultExpanded":true,"theme":{"color":"#222222","backgroundColor":"#ffffff","borderColor":"#dddddd","borderWidth":"1px","stripedColor":"#dddddd","highlightColor":"#f0f0f0","cellPadding":5,"tableStyle":{"fontSize":14,"borderBottom":"3px solid #222222"},"headerStyle":{"borderWidth":"3px","paddingTop":"12px","verticalAlign":"bottom","textAlign":"bottom","background":"#ffffff","textTransform":"uppercase","borderColor":"#222222","color":"#000000","&:hover":{"background":"#dddddd"},"&[aria-sort='ascending'], &[aria-sort='descending']":{"background":"#5b5e5f","color":"#ffffff"},"borderColor.1":"#333","fontSize":12},"groupHeaderStyle":{"&:not(:empty)":{"paddingBottom":"3px","verticalAlign":"bottom","textAlign":"bottom","backgroundColor":"#ffffff","textTransform":"uppercase","fontSize":12,"color":"#222222"}},"rowSelectedStyle":{"backgroundColor":"#dddddd"},"cellStyle":{"display":"flex","flexDirection":"column","justifyContent":"center"},"inputStyle":{"backgroundColor":"#ffffff","color":"#222222"},"searchInputStyle":{"textTransform":"uppercase","color":"#222222","fontSize":"14px"},"paginationStyle":{"textTransform":"uppercase","fontSize":"14px"},"pageButtonStyle":{"textTransform":"uppercase","fontSize":"14px"}},"dataKey":"01eb1f9aa58abaeaff0139fbc23daed4"},"children":[]},"class":"reactR_markup"},"evals":[],"jsHooks":[]}</script>
 <details class=chunk-details><summary class=chunk-summary><span class=chunk-summary-text>Code</span></summary>
 <div class="sourceCode" id="cb9"><pre class="sourceCode r"><code class="sourceCode r"><span id="cb9-1"><a href="profiles.html#cb9-1" tabindex="-1"></a>importance_ag <span class="ot">&lt;-</span></span>
 <span id="cb9-2"><a href="profiles.html#cb9-2" tabindex="-1"></a>  model_outputs<span class="sc">$</span>model_timor_AG<span class="sc">$</span>fit <span class="sc">%&gt;%</span></span>

diff --git a/docs/index.html b/docs/index.html
@@ -176,7 +176,7 @@ code span.wa { color: #60a0b0; font-weight: bold; font-style: italic; } /* Warni
 <div id="header">
 <h1 class="title">Fishery nutrient profiles provide a practical tool for nutrition-sensitive fisheries management</h1>
 <p class="author"><em>Lorenzo Longobardi</em></p>
-<p class="date"><em>Last update: 2025-07-10</em></p>
+<p class="date"><em>Last update: 2025-07-14</em></p>
 </div>
 <div id="content" class="section level1 hasAnchor" number="1">
 <h1><span class="header-section-number">1</span> Content<a href="index.html#content" class="anchor-section" aria-label="Anchor link to header"></a></h1>
